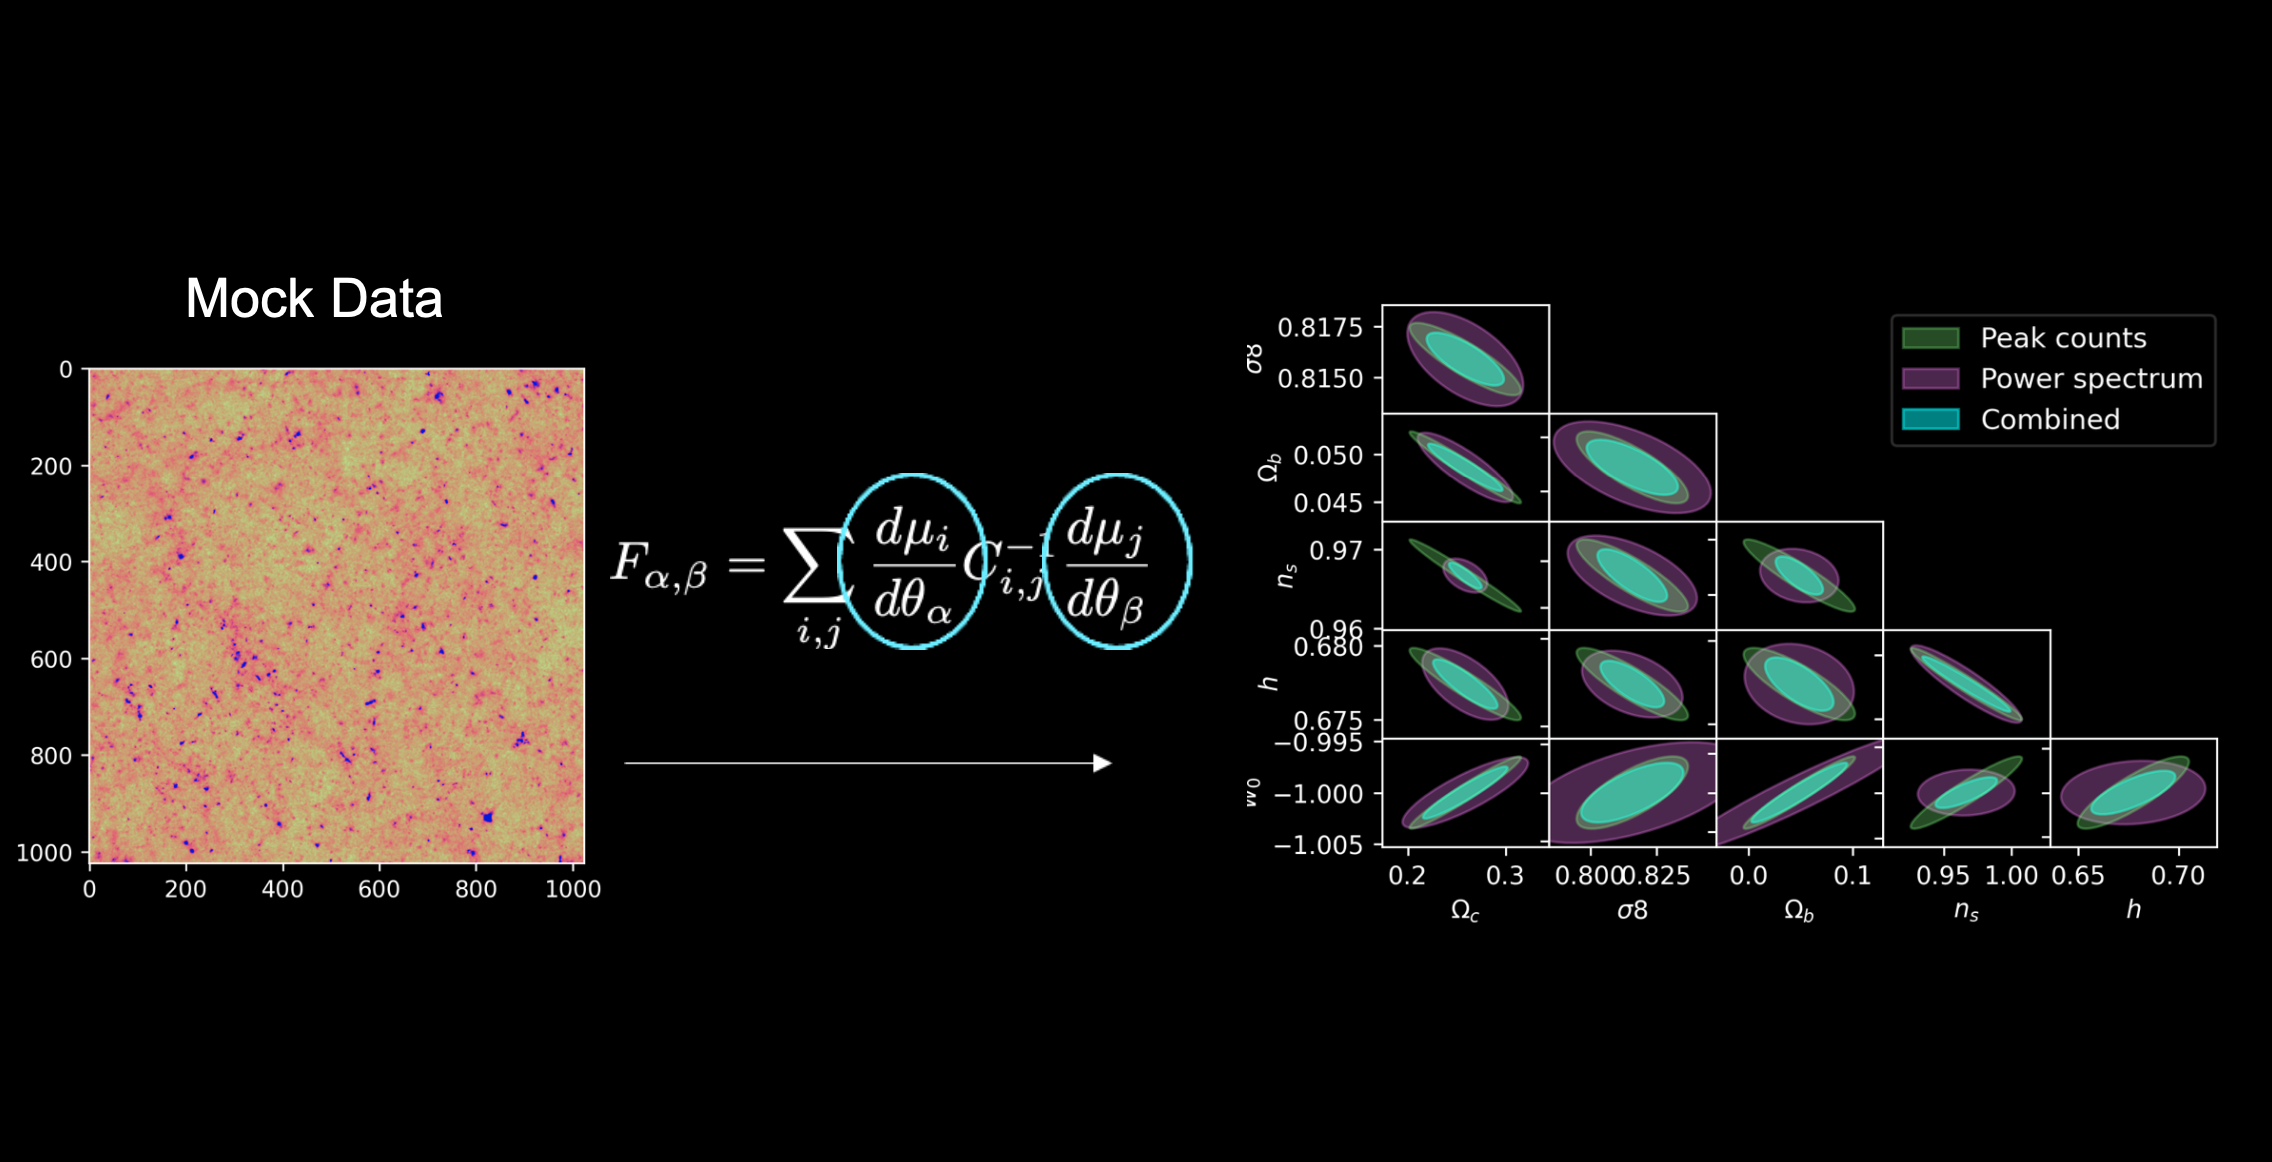
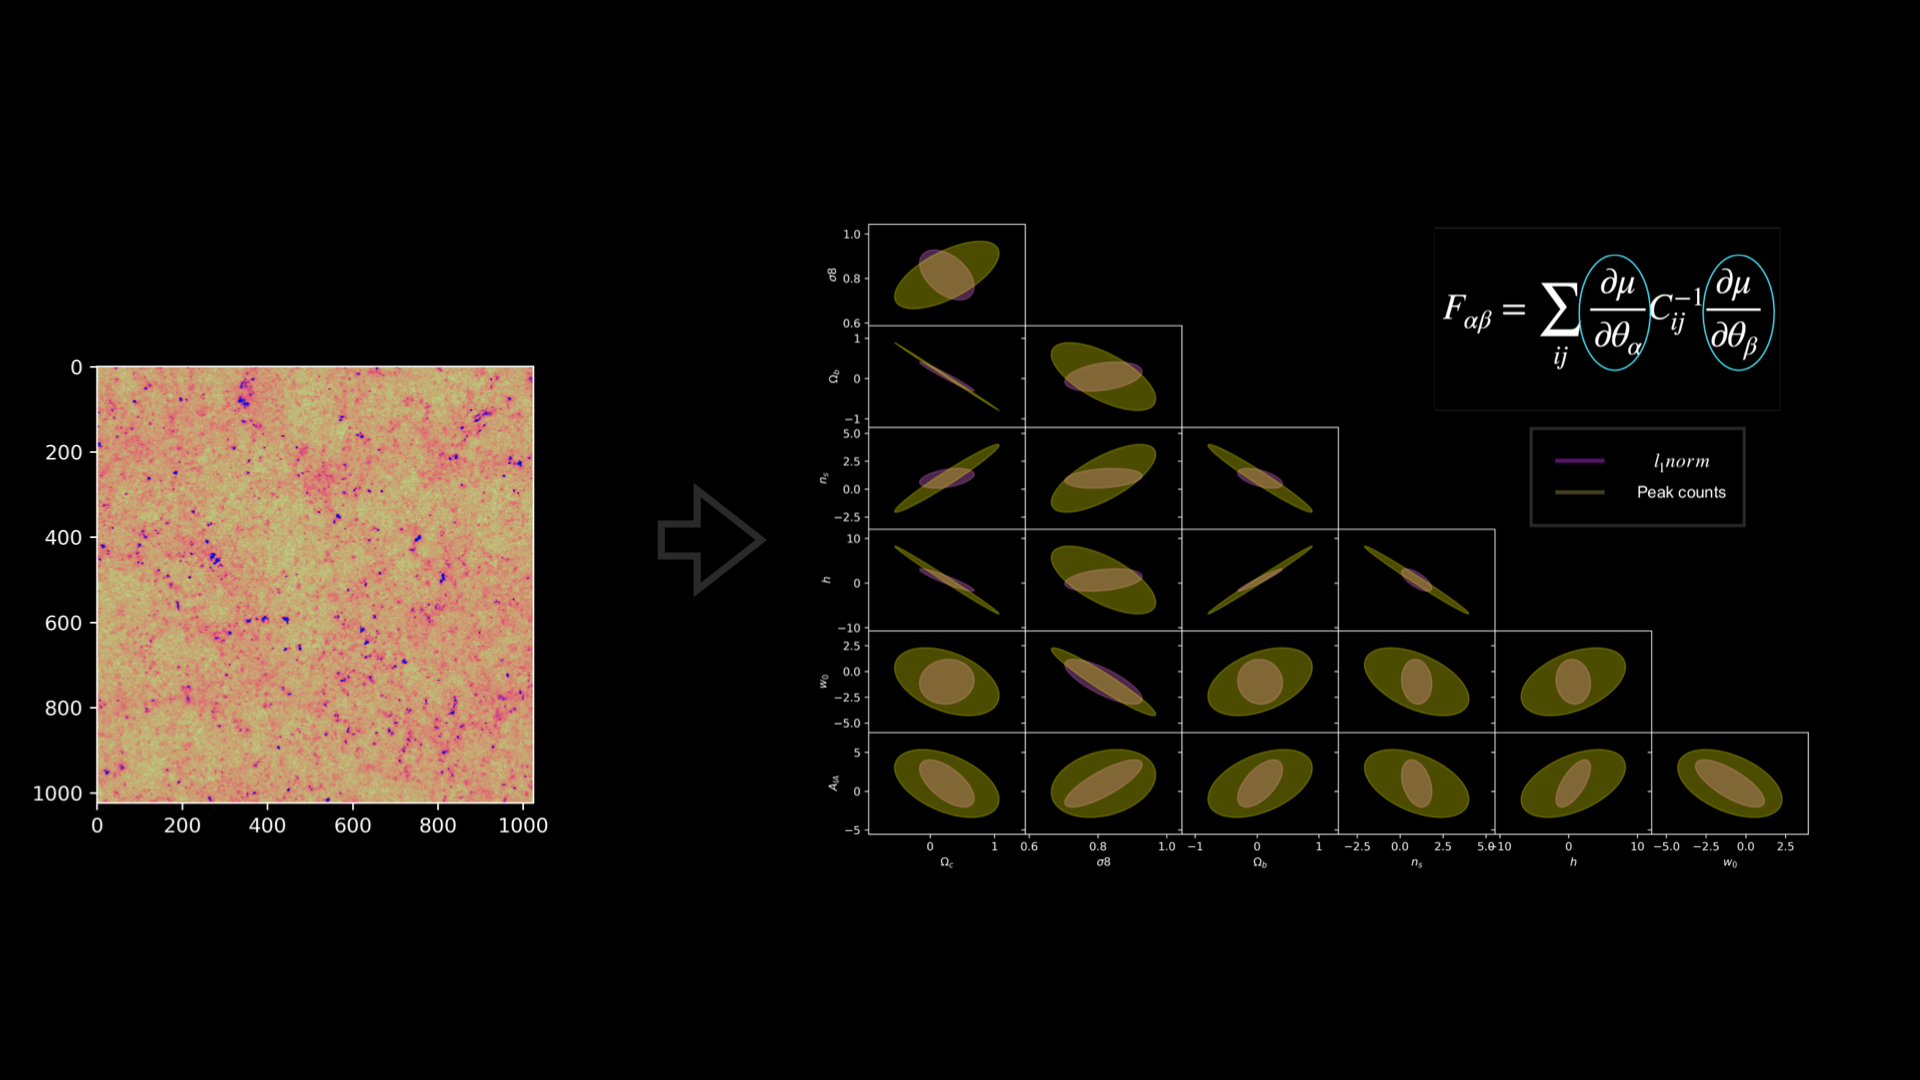
chang

Changed region(s): [[0.0, 0.2139, 0.9688, 0.7944], [0.0625, 0.2444, 0.2188, 0.275], [0.4688, 0.3361, 0.5, 0.3667]]

diff --git a/WL_beyond_2pt_conf/index.html b/WL_beyond_2pt_conf/index.html
@@ -133,7 +133,7 @@ avalable<!doctype html>
 			<div class='col'>
 				<div class="block" >
 					<div class="block-title">
-					Main limitation: Lack of analytical models
+					Main limitation: 
 					</div>
 					<div class="block-content">
 						<ul>
@@ -172,37 +172,37 @@ avalable<!doctype html>
 	</h3>
 		<div class='container'>
 			<div class='col'>
-				<div class="block-title"  style="position:relative; left:-50px; top:-45px; ">	DLL (Differentiable lensing light cone)
+				<div class="block-title"  style="position:relative; left:-50px; top:-70px; ">	DLL (Differentiable lensing light cone)
 				</div>
 					<ul>
 						<li class="fragment" data-fragment-index="0"> <b class="alert"> FLowPM N-body </b> simulation (particle-mesh solver)
 						</li>
 						<br>
-						<li class="fragment" data-fragment-index="1">  Fills the gap in the accuracy-speed space
+						<!-- <li class="fragment" data-fragment-index="1">  Fills the gap in the accuracy-speed space
+						</li>
+						<br> -->
+						<li class="fragment" data-fragment-index="1">  Implements raytracing by Born approximation
 						</li>
 						<br>
-						<li class="fragment" data-fragment-index="2">  Implements raytracing by Born approximation
-						</li>
-						<br>
-						<li class="fragment" data-fragment-index="3">  Provides derivatives with respect to cosmological and nuisance parameters through automatic differentiation
+						<li class="fragment" data-fragment-index="2">  Provides derivatives with respect to cosmological and nuisance parameters through automatic differentiation
 						</li>
 					</ul>
-					<div class="fragment" data-fragment-index="4" style="position:relative; width:60px; height:60px; left:50px; top:10px;">
+					<div class="fragment" data-fragment-index="3" style="position:relative; width:60px; height:60px; left:50px; top:10px;">
 						<img  style="position:relative; left:90px;" data-src="assets/github.png"  />
 						<div  style="position:relative; left:-60px;"> <a href="https://github.com/DifferentiableUniverseInitiative/flowpm/">github.com/DifferentiableUniverseInitiative/flowpm/</a>
 						</div>
 					</div>
 			</div>
 			<span style="position:relative; top:-215px;  ">&#10233;</span>
-			<span class="fragment  plain" data-fragment-index="3" style="position:relative; top:82px;  ">&#10233;</span>
+			<span class="fragment  plain" data-fragment-index="2" style="position:relative; top:82px;  ">&#10233;</span>
 			<div class='col'>
   			<div style="position:relative; left:50px; top:55px;  ">   TensorFlow-based weak gravitational lensing package
 				</div>
 				<div style="position:relative; width:550px; height:550px; margin:0 auto;">
 					<img class="fragment current-visible plain" data-src="assets/evolvingLSS.jpg" style="position:absolute;top:70;left:30;" data-fragment-index="0" />
-					<img class="fragment current-visible plain" data-src="assets/pkhalofit_comp_.png" style="position:absolute;top:70;left:30;" data-fragment-index="1" />
+					<!-- <img class="fragment current-visible plain" data-src="assets/pkhalofit_comp_.png" style="position:absolute;top:70;left:30;" data-fragment-index="1" /> -->
 					<!-- <img class="fragment current-visible plain" data-src="assets/kmap_with.png" style="position:absolute;top:70;left:30;" data-fragment-index="2" /> -->
-					<div class="fragment current-visible plain"  style="position:absolute;top:200;left:-50; width:10px;" data-fragment-index="2">
+					<div class="fragment current-visible plain"  style="position:absolute;top:150;left:-50; width:10px;" data-fragment-index="1">
 						\[\begin{equation}
 							\kappa_{born}(\boldsymbol{\theta},\chi_s)= \frac{3H_0^2 \Omega_m}{2c^2}
 							\int_0^{\chi_s}
@@ -211,7 +211,7 @@ avalable<!doctype html>
 							\delta(\chi \boldsymbol{\theta},\chi).
 						\end{equation} \]
 					</div>
-					<div class="fragment  plain"  style="position:absolute;top:100;left:150;" data-fragment-index="3">
+					<div class="fragment  plain"  style="position:absolute;top:100;left:150;" data-fragment-index="2">
 						 $y = a * x + b$
 						 <br>
 						 <span>&#8595;</span>
@@ -219,24 +219,53 @@ avalable<!doctype html>
 							<span>&#8595;</span>
 							$$\frac{\partial y}{\partial x} = \frac{\partial y}{\partial u} \frac{ \partial u}{\partial x} = 1 \times a = a$$
 					</div>
-					<img class="fragment  plain" data-src="assets/TF_FullColor_Horizontal.png" style="position:absolute;top:350;left:30;" data-fragment-index="3" />
+					<img class="fragment  plain" data-src="assets/TF_FullColor_Horizontal.png" style="position:absolute;top:350;left:30;" data-fragment-index="2" />
 				</div>
 			</div>
 		</div>
 </section>
 
+<section  class="inverted" data-background="#000">
+<h2 class='slide-title'>	Fill the gap in the accuracy-
+speed space </h2>
+	<div style="position:relative; width:600px; height:600px; margin:0 auto;">
+
+			<div class='col'>
+				<img  style="position:absolute;top:90;left:-380; width:580px; height:340px"; data-src="assets/clsktnghalo_comp_.png" />
+				<!-- <div style="float:right; font-size: 15px; position:absolute;top:450;left:-380;"> Angular power spectra from our DLL maps with and without correction compared to the $\kappa$TNG predictions.
+				</div> -->
+				</div>
+			<div class='col'>
+				<img  style="position:absolute;top:55;left:380;"; data-src="assets/peakcountsktngsn_.png" /> </li>
+				<!-- <div style="font-size:15px;;"> Peak counts from our DLL map at source redshift $z_$=1.034 compared to the  $\kappa$TNG at the same redshift.
+				</div> -->
+			</div>
+	</div>
+	<!-- <div style="position:relative; top:-75; left:-200">
+		<ul>	<h3>Future work:<h3>
+			<li> Baryonic impact on 2-point and higher order statistics
+			</li>
+			<br>
+			<li> Fast and differentiable method to include baryons (BCM? LDL?)
+			</li>
+	  </ul>
+	</div> -->
+</section>
 
 <section class="inverted" data-background="#000">
 	<h2 class='slide-title'>  A first application: Fisher forecasts
 	</h2>
 		<div class='col'>
-			<li style="position:absolute;top:85;left:20;"> Use Fisher matrix to investigate the constraining power of different statistics
+			<li style="position:absolute;top:95;left:20;"> Use Fisher matrix to investigate the constraining power of different statistics
 			</li>
-			<div style="position:relative; width:900px; height:900px; margin:0 auto;">
-				<img  style="position:absolute;top:55;left:80;"; data-src="assets/mom_.png" />
+			<div style="position:relative; width:1200px; height:1200px; margin:0 auto;">
+				<img  style="position:absolute;top:25;left:80;"; data-src="assets/mom_.png" />
 			</div>
 		</div>
 </section>
+
+
+
 
 <section class="inverted" data-background="#000">
 	<h3 class="slide-title"> Conclusion
